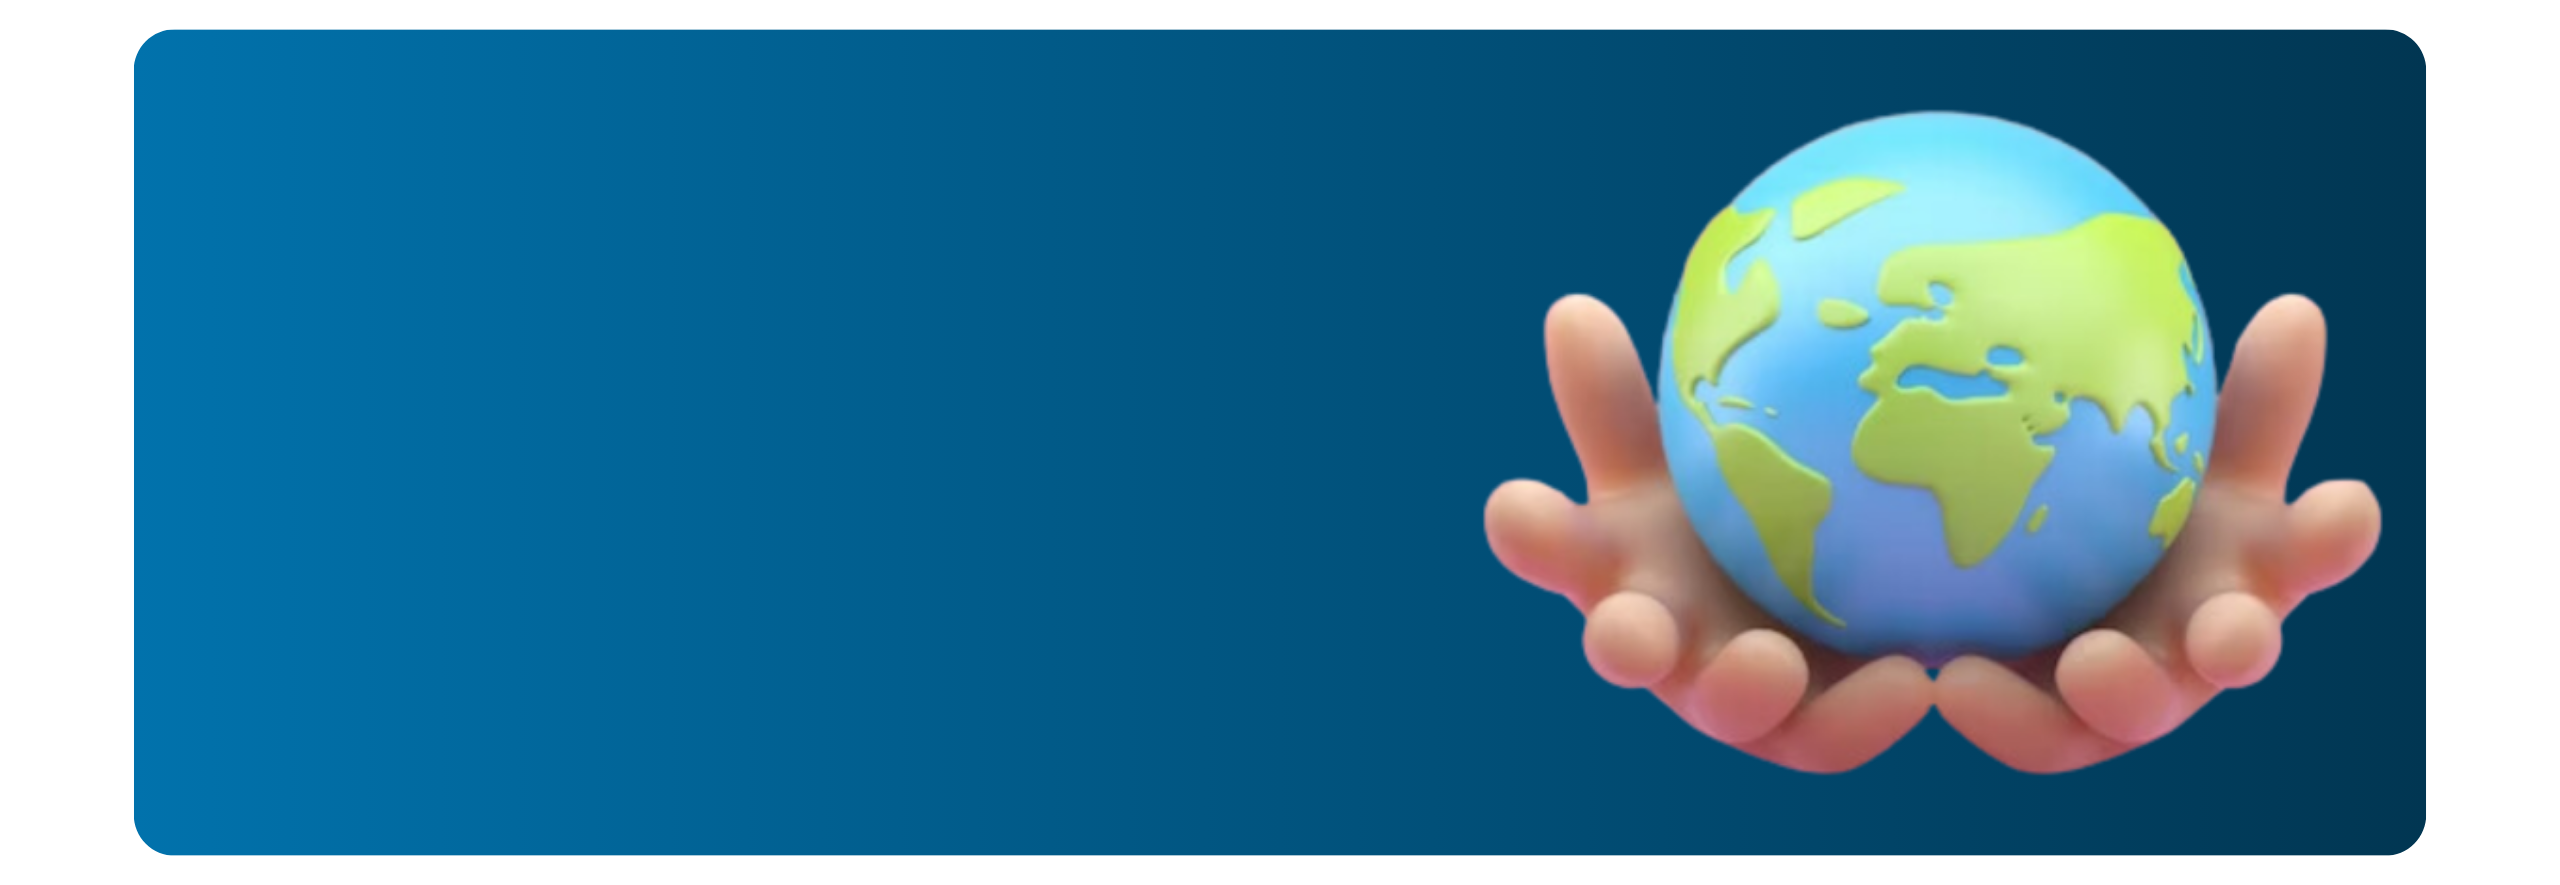
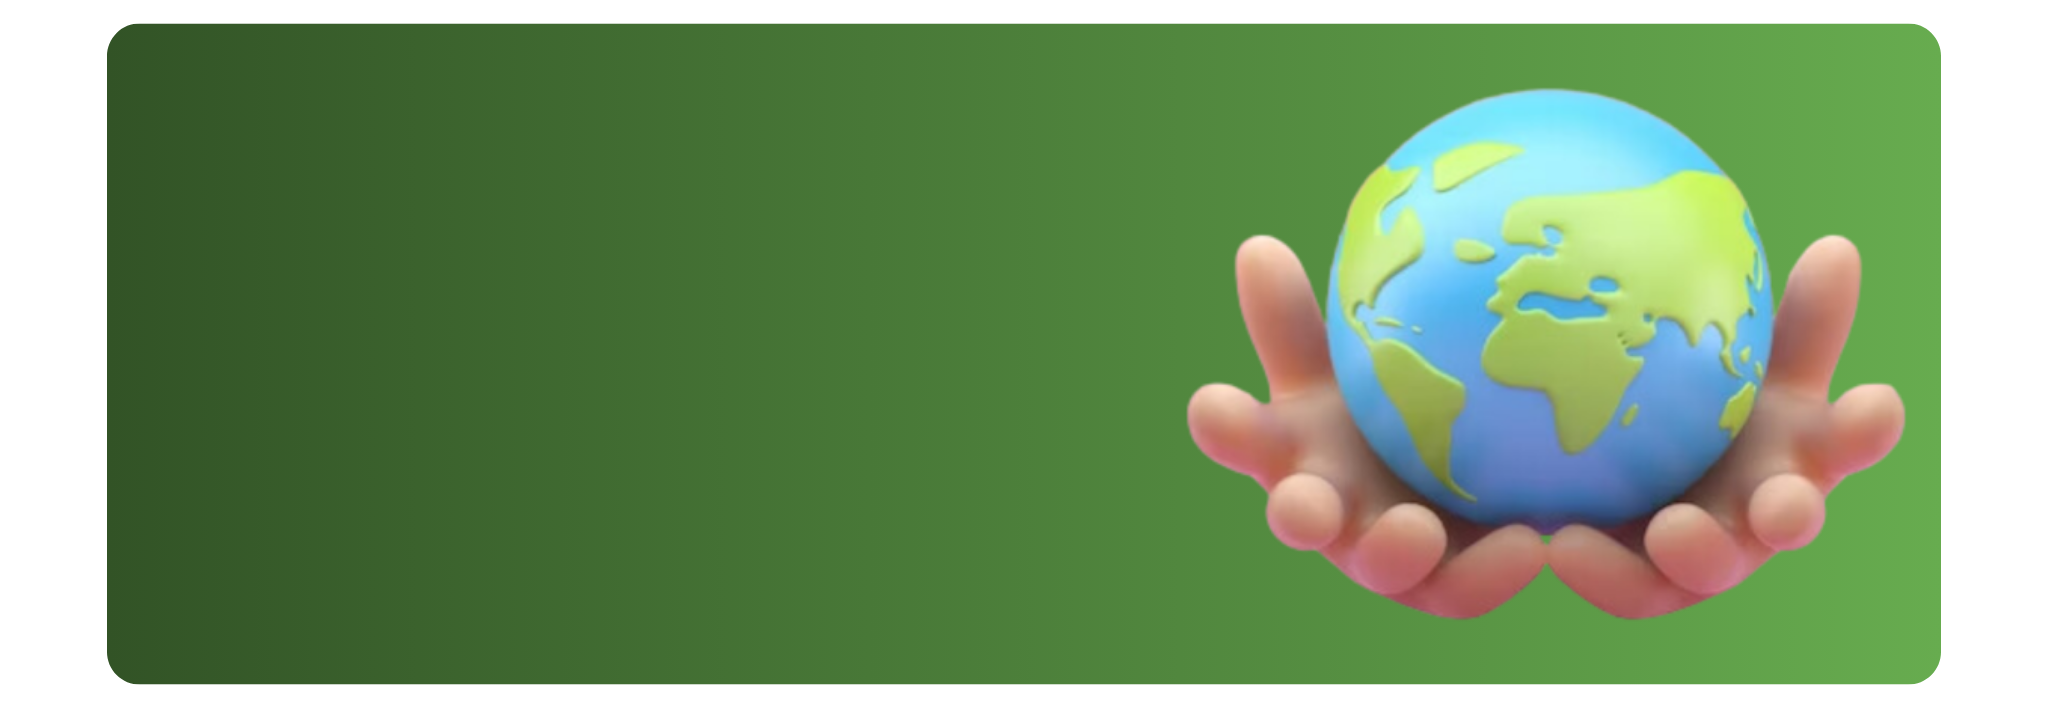
Replace Color
Replace Color Blue to Green

diff --git a/public/assets/css/style.css b/public/assets/css/style.css
@@ -6366,7 +6366,7 @@ a.social_bt.google:before {
   }
 }
 footer {
-  background-color: #172134;
+  background-color: #2E4D23;
   padding: 60px 0 35px 0;
 }
 @media (max-width: 767px) {
